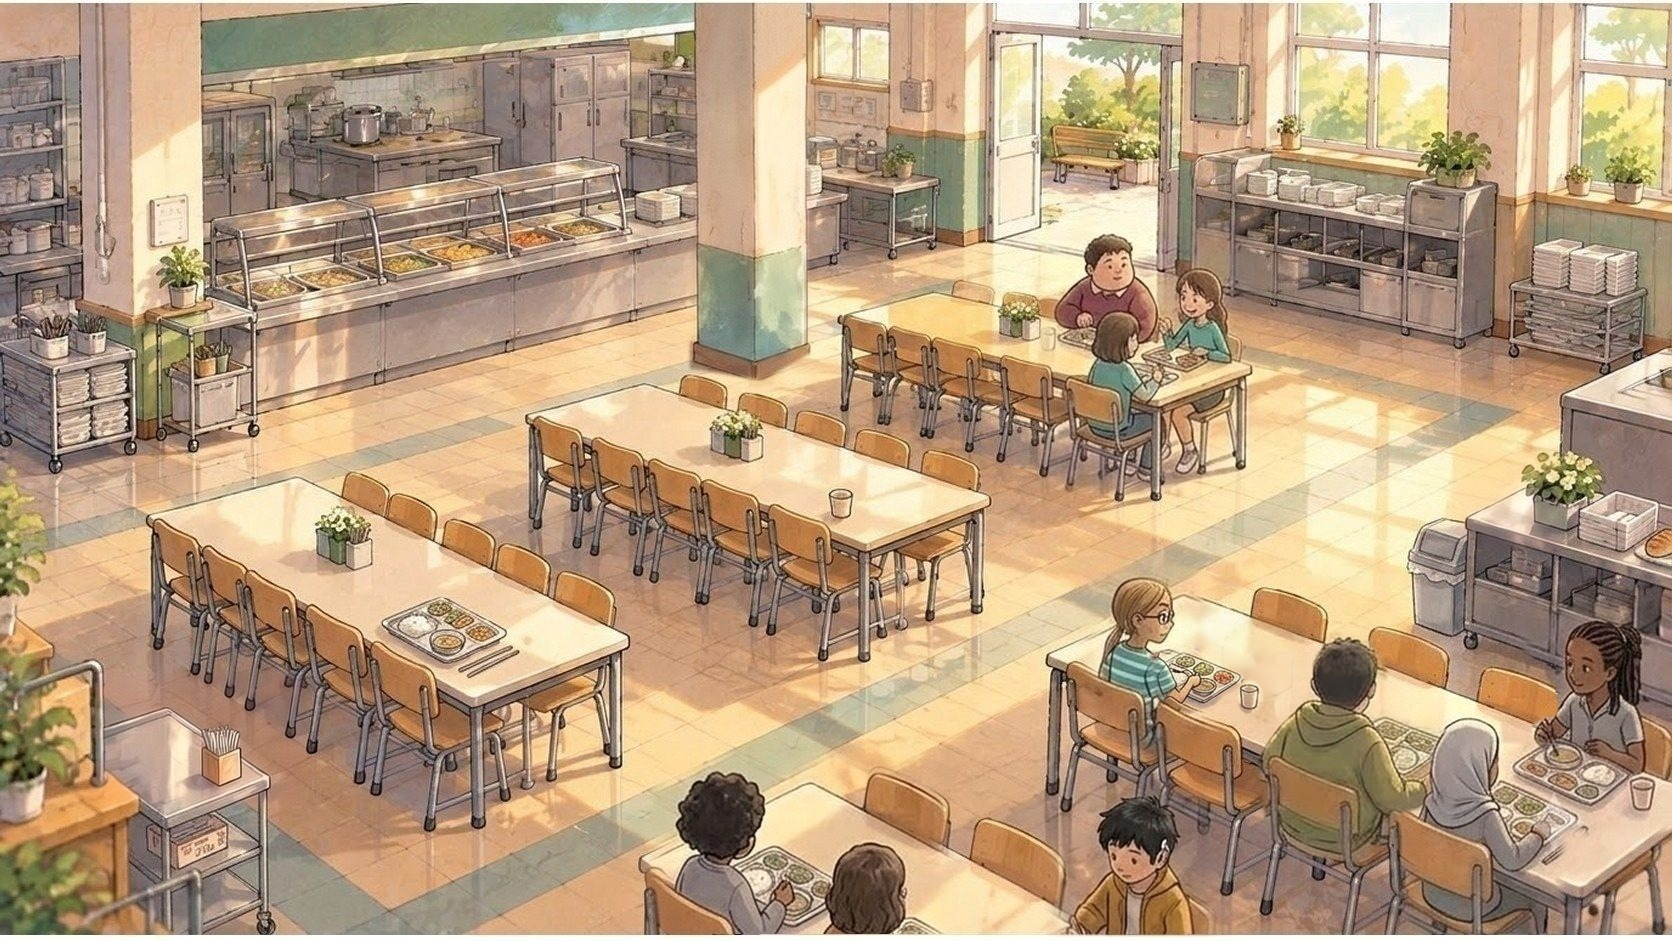
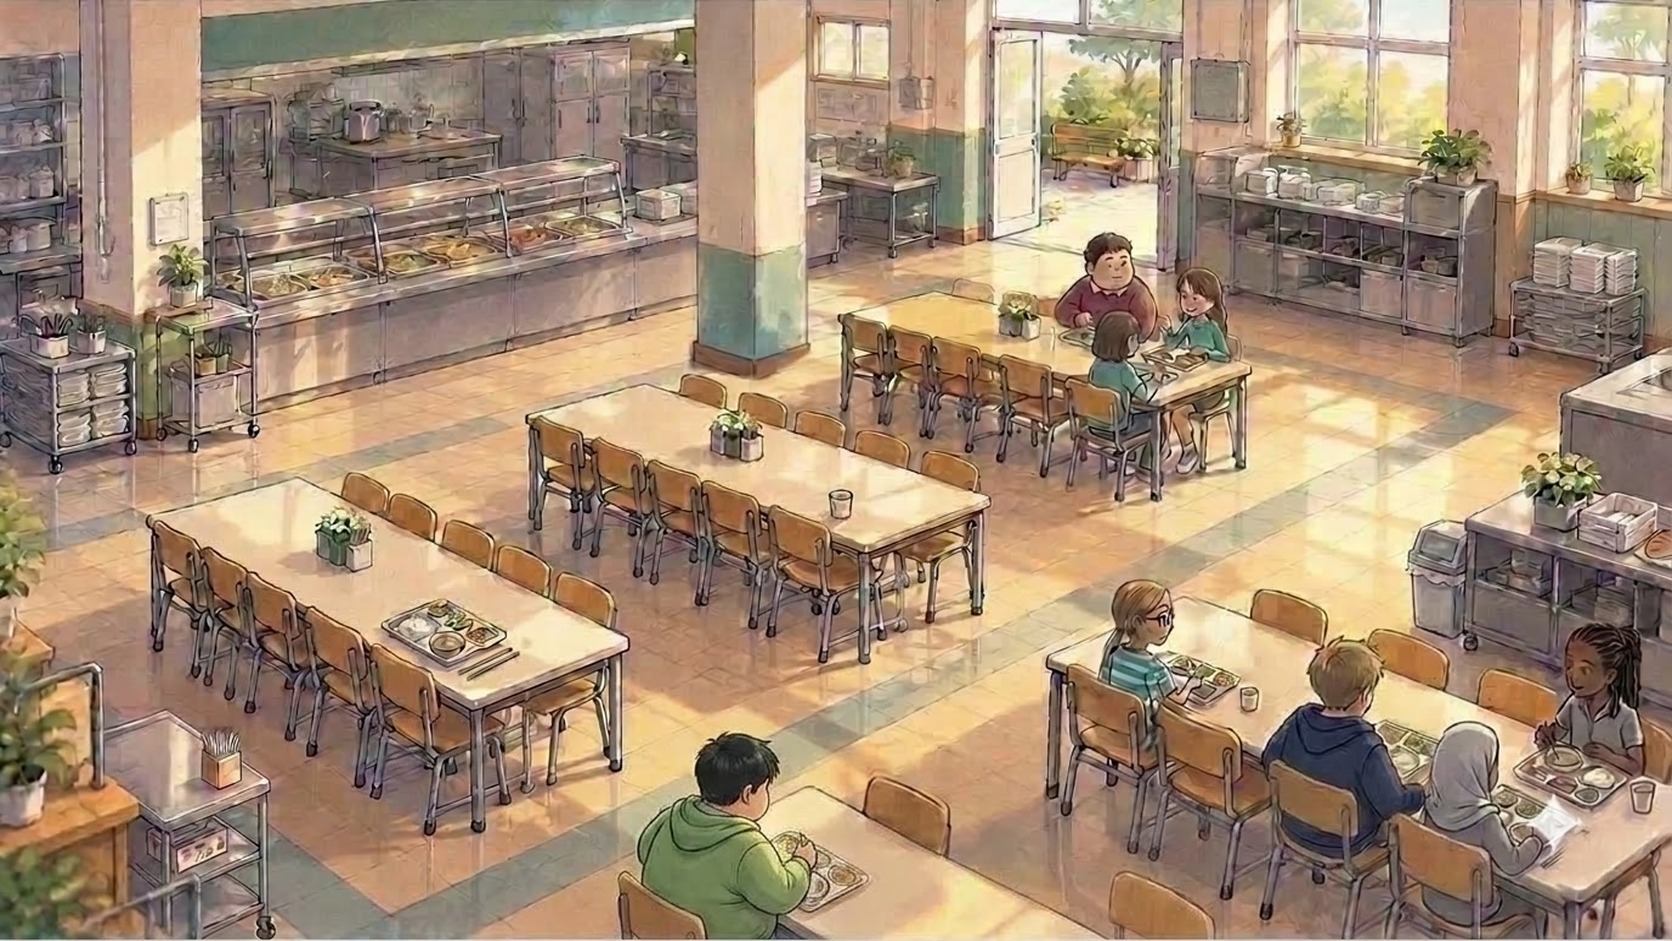
시우 4화 급식실(시우 자리·통통하게·잘린 시우 숨김)·5화 A(창틀 우유갑, 줄서기)·5화 C(공책에 적기), 혜은 2일차 지우개는 도착 뒤 앞바퀴 앞, 한결 13화 빈 선택지 버튼 고침

diff --git a/index.html b/index.html
@@ -119,14 +119,14 @@ body,button{word-break:keep-all;overflow-wrap:break-word}
 <div id="fader"></div>
 <script>
 // same address, newest version: if the page this phone has kept is older than the one online, fetch the new one and reopen
-const BUILD='1115115642';
+const BUILD='1115124801';
 try{fetch(location.pathname,{cache:'no-store'}).then(r=>r.text()).then(t=>{const m=t.match(/const BUILD='(\d+)'/);if(m&&m[1]!==BUILD&&sessionStorage.getItem('upd')!==m[1]){sessionStorage.setItem('upd',m[1]);fetch(location.pathname,{cache:'reload'}).then(()=>location.reload())}}).catch(()=>{})}catch(e){}
 </script>
-<script src="i18n.js?v=1115115642"></script>
-<script src="i18n_prologue_v2.js?v=1115115642"></script>
-<script src="day2/i18n_engine.js?v=1115115642"></script>
-<script src="day2/data.js?v=1115115642"></script>
-<script src="day3/data.js?v=1115115642"></script>
+<script src="i18n.js?v=1115124801"></script>
+<script src="i18n_prologue_v2.js?v=1115124801"></script>
+<script src="day2/i18n_engine.js?v=1115124801"></script>
+<script src="day2/data.js?v=1115124801"></script>
+<script src="day3/data.js?v=1115124801"></script>
 <script>
 // ---------- data ----------
 const MW=1672,MH=941,KID=180;
@@ -417,8 +417,9 @@ const pangSaid={};function tapPang(){speak('dog');const ls=(typeof PANG2!=='unde
 const talk=document.getElementById('talk'),faceEl=document.getElementById('face'),whoEl=document.getElementById('who'),lineEl=document.getElementById('line'),chEl=document.getElementById('choices'),nextEl=document.getElementById('next'),sceneEl=document.getElementById('scene');
 let queue=[],talkOn=false,qDone=null;
 function say(lines,done){if(touring){tourQ.push(()=>say(lines,done));return}busy=true;queue=lines.slice();qDone=done;talkOn=true;talk.classList.add('on');advance();setTimeout(clearUI,20)}
-function advance(){if(chEl.classList.contains('on'))return;const l=queue.shift();hideSay();if(!l){talk.classList.remove('on');talkOn=false;busy=false;const d=qDone;qDone=null;d&&d();return}
- if(typeof l==='function'){l();return advance()}
+// a function line may return a promise (a kid still walking): the lines wait for it, and taps meanwhile do nothing (11/15)
+let WAITQ=false;function advance(){if(chEl.classList.contains('on')||WAITQ)return;const l=queue.shift();hideSay();if(!l){talk.classList.remove('on');talkOn=false;busy=false;const d=qDone;qDone=null;d&&d();return}
+ if(typeof l==='function'){const r=l();if(r&&typeof r.then==='function'){WAITQ=true;r.then(()=>{WAITQ=false;advance()});return}return advance()}
  const[who,expr,text]=l;const fid=who==='me'||who==='think'?HERO:who;
  // the one taught word shown in the learned language in this line is also heard (UI text stays in the player's language)
  {TEACH=l.teach||(DAY<=1?['mom','notebook']:[]);tr(text);LINEW=LASTW.slice()}// heard when tapped (day2/tapword.js), not on its own
@@ -581,37 +582,37 @@ function pickHero(){const m=document.getElementById('modal'),c=document.getEleme
  c.innerHTML=`<h2>${tr('전학생 반장되기')}</h2><p>${tr('한국말이 아직 서툰 전학생,<br>반장 선거에 나가다.')}</p><p style="margin-top:14px">${tr('누구로 할까요?')}</p>${(()=>{const s=loadSave();return s&&s.day>=2&&s.mode===UI+'-'+LANG?`<p><button class="big" id="cont">${tr('{n}일차부터 이어 하기').replace('{n}',s.day)}</button></p>`:''})()}<div class="pick heroes"><button data-h="hero_f"><img src="faces/hero_f_smile.jpg" alt="여자 주인공">${heroName(1)}</button><button data-h="hero_m"><img src="faces/hero_m_smile.jpg" alt="남자 주인공">${heroName(0)}</button></div>`;
  m.classList.add('on');{const cb=document.getElementById('cont');if(cb)cb.onclick=()=>{const s=loadSave();HERO=s.hero;Object.assign(HEART,s.heart||{});(s.found||[]).forEach(k=>FOUND.add(k));HEART_D1={...HEART};chime();(typeof contGame==='function'?contGame(s):startDay(Math.min(s.day,Object.keys(window.D3||{}).length?3:2)))}}c.querySelectorAll('.pick button').forEach(b=>b.onclick=()=>{HERO=b.dataset.h;m.classList.remove('on');chime();bgm('day');load('home_am');say([['nar','','이사 온 다음 날 아침. 아직 풀지 못한 상자들이 쌓여 있다.'],['think','sad','(오늘부터 새 학교야. 여기 말도 아직 서툰데…….)'],['think','smile','({m}한테 인사하고 학교 가야지.)']],morning)})}
 </script>
-<script src="day2/engine.js?v=1115115642"></script>
-<script src="day2/ep_minho.js?v=1115115642"></script>
-<script src="day2/meet.js?v=1115115642"></script>
-<script src="day2/ep_sua.js?v=1115115642"></script>
-<script src="day2/ep_hangyeol.js?v=1115115642"></script>
-<script src="day2/ep_siwoo.js?v=1115115642"></script>
-<script src="day2/ep_haram.js?v=1115115642"></script>
-<script src="day2/ep_jiho.js?v=1115115642"></script>
-<script src="day2/ep_hyeeun.js?v=1115115642"></script>
-<script src="day2/ep_haneul.js?v=1115115642"></script>
-<script src="day2/ep_junho.js?v=1115115642"></script>
-<script src="day2/ep_yuna.js?v=1115115642"></script>
-<script src="day2/ep_yena.js?v=1115115642"></script>
-<script src="day2/ep_haeun.js?v=1115115642"></script>
-<script src="day2/ep_youngmin.js?v=1115115642"></script>
-<script src="day2/ep_seah.js?v=1115115642"></script>
-<script src="day2/ep_jihoon.js?v=1115115642"></script>
-<script src="words_ja_ru.js?v=1115115642"></script>
-<script src="day2/mybag.js?v=1115115642"></script>
-<script src="day2/wordpics.js?v=1115115642"></script>
-<script src="day2/spots.js?v=1115115642"></script>
-<script src="day2/textfit.js?v=1115115642"></script>
-<script src="day2/tester.js?v=1115115642"></script>
-<script src="day2/ux.js?v=1115115642"></script>
-<script src="day2/tapword.js?v=1115115642"></script>
-<script src="day2/review.js?v=1115115642"></script>
-<script src="day2/plane.js?v=1115115642"></script>
-<script src="day2/bubble.js?v=1115115642"></script>
-<script src="day2/ep_ending.js?v=1115115642"></script>
-<script src="day2/ending.js?v=1115115642"></script>
-<script src="day2/stats.js?v=1115115642"></script>
+<script src="day2/engine.js?v=1115124801"></script>
+<script src="day2/ep_minho.js?v=1115124801"></script>
+<script src="day2/meet.js?v=1115124801"></script>
+<script src="day2/ep_sua.js?v=1115124801"></script>
+<script src="day2/ep_hangyeol.js?v=1115124801"></script>
+<script src="day2/ep_siwoo.js?v=1115124801"></script>
+<script src="day2/ep_haram.js?v=1115124801"></script>
+<script src="day2/ep_jiho.js?v=1115124801"></script>
+<script src="day2/ep_hyeeun.js?v=1115124801"></script>
+<script src="day2/ep_haneul.js?v=1115124801"></script>
+<script src="day2/ep_junho.js?v=1115124801"></script>
+<script src="day2/ep_yuna.js?v=1115124801"></script>
+<script src="day2/ep_yena.js?v=1115124801"></script>
+<script src="day2/ep_haeun.js?v=1115124801"></script>
+<script src="day2/ep_youngmin.js?v=1115124801"></script>
+<script src="day2/ep_seah.js?v=1115124801"></script>
+<script src="day2/ep_jihoon.js?v=1115124801"></script>
+<script src="words_ja_ru.js?v=1115124801"></script>
+<script src="day2/mybag.js?v=1115124801"></script>
+<script src="day2/wordpics.js?v=1115124801"></script>
+<script src="day2/spots.js?v=1115124801"></script>
+<script src="day2/textfit.js?v=1115124801"></script>
+<script src="day2/tester.js?v=1115124801"></script>
+<script src="day2/ux.js?v=1115124801"></script>
+<script src="day2/tapword.js?v=1115124801"></script>
+<script src="day2/review.js?v=1115124801"></script>
+<script src="day2/plane.js?v=1115124801"></script>
+<script src="day2/bubble.js?v=1115124801"></script>
+<script src="day2/ep_ending.js?v=1115124801"></script>
+<script src="day2/ending.js?v=1115124801"></script>
+<script src="day2/stats.js?v=1115124801"></script>
 <script>
 // the goal shows big for a few seconds, then folds into a small pill (tap it to open it again)
 {const g=document.getElementById('goal');let t=null;const big=()=>{g.classList.remove('mini');clearTimeout(t);t=setTimeout(()=>g.classList.add('mini'),4000)};

diff --git a/day2/ep_siwoo.js b/day2/ep_siwoo.js
@@ -157,9 +157,10 @@ EP.siwoo=[
   common:[['me','smile','2번은 내가 적어야 돼. {m}, 이상한 말 하나 알려 줘.'],['mom','smile','음…… ‘발이 넓다’?'],['me','surprised','……발이 크다는 거야?'],['mom','smile','그거 2번으로 적어.'],['dad','smile','{d}도 하나 줄게. ‘귀가 얇다.’']]}},
 
 // ■ Day 5 — 숟가락 소리 (4)
-{title:'숟가락 소리',scene:'siwoo_04',place:'cafe',at:[1202,726],sit:[1340,755,200],cafeMap:'cafe2_lunch_siwoo',
+{title:'숟가락 소리',scene:'siwoo_04',place:'cafe',at:[905,815],sit:[723,800,200],cafeMap:'cafe2_lunch_siwoo',// (11/15 owner) the map redrawn: Siwoo sits at the bottom table in front of where Haram stands, the chair beside him empty
  things:{},
  pre:[
+  {me:[900,812]},
   ['nar','','점심시간 급식실. 시끄러웠다. 수백 명이 한꺼번에 떠들고, {@tray}이 부딪치고, {@chair}가 끌렸다.'],
   {pic:'siwoo_04c'},
   ['nar','','시우는 늘 급식실 맨 끝 벽 쪽 자리에 앉았다. 나는 30센티 떨어진 자리에 {@tray}을 놓았다.'],
@@ -879,4 +880,4 @@ addEventListener('load',()=>{const _ldSw=load;load=function(id,extra){try{const 
 if(typeof HEROPIC!=='undefined')HEROPIC.add('siwoo_08e');HEROPIC.add('siwoo_02a');
 
 // hide the Siwoo sprite where he is drawn into the map (tapping his spot still works)
-{const _ld=load;load=function(id){try{if(id==='cafe'&&MAPS.cafe&&MAPS.cafe.img2){const e=epNext('siwoo',EPIDX.siwoo);if(e&&e.place==='cafe'&&e.cafeMap){MAPS.cafe.img2=`maps/${e.cafeMap}.jpg`;window._swDrawn=1}else{if(/_siwoo/.test(MAPS.cafe.img2))MAPS.cafe.img2='maps/cafe2_lunch.jpg';window._swDrawn=0}}}catch(e){}const r=_ld.apply(this,arguments);try{if(id==='cafe'&&window._swDrawn){const hide=()=>{const n=npcs.find(n=>n.id==='siwoo');if(n&&n.el){n.el.style.visibility='hidden'}};hide();setTimeout(hide,60);setTimeout(hide,400)}}catch(e){}return r}}
+{const _ld=load;load=function(id){try{if(id==='cafe'&&MAPS.cafe&&MAPS.cafe.img2){const e=epNext('siwoo',EPIDX.siwoo);if(e&&e.place==='cafe'&&e.cafeMap){MAPS.cafe.img2=`maps/${e.cafeMap}.jpg`;window._swDrawn=1}else{if(/_siwoo/.test(MAPS.cafe.img2))MAPS.cafe.img2='maps/cafe2_lunch.jpg';window._swDrawn=0}}}catch(e){}const r=_ld.apply(this,arguments);try{if(id==='cafe'&&window._swDrawn){const hide=()=>{const n=npcs.find(n=>n.id==='siwoo');if(n&&n.el){n.el.style.visibility='hidden'}};hide();setTimeout(hide,60);setTimeout(hide,400);clearInterval(window._swHideT);window._swHideT=setInterval(()=>{if(MAP!=='cafe'||!window._swDrawn){clearInterval(window._swHideT);return}hide()},300)}}catch(e){}return r}}

diff --git a/day2/ep_hangyeol.js b/day2/ep_hangyeol.js
@@ -660,12 +660,13 @@ EP.hangyeol=[
    ['me','smile','예나야, 한결이가 결이라고 하는 건, 그러니까, 할아버지가…… 아니 {@picture}에도 그렇고……'],{pic:'hangyeol_13_cC'},['hangyeol','surprised','야, 야. 내가 말할게.'],
    ['nar','','한결이가 손을 들어 내 말을 막았다.'],['hangyeol','smile','예나야, 그냥 그게 더 좋아. 이유는 내가 말할게. 할아버지가 그렇게 불렀어.'],['yena','smile','아, 그래? 알았어, 결이.'],
    ['think','sad','(도와주려 했는데, 한결이가 할 말을 내가 막 했네.)']]},
-  {pic:'hangyeol_13_cB'},{k:'D',text:'예나에게 짧게 말한다. 「불리고 싶은 이름으로 불러 주면 좋잖아. 나도 이름이 두 개야.」',pts:{hangyeol:2},r:[
+  {k:'D',text:'예나에게 짧게 말한다. 「불리고 싶은 이름으로 불러 주면 좋잖아. 나도 이름이 두 개야.」',pts:{hangyeol:2},r:[
    ['me','smile','불리고 싶은 이름으로 불러 주면 좋잖아. 나도 이름이 두 개야. {SN|이랑} {HN}.'],['yena','surprised','아, 그렇네. {HN}? 다시 해 봐.'],
    ['nar','','내 이름을 말했다. 예나가 따라 하다가 혀가 꼬였다.'],['yena','laugh','어렵다! 근데 결이는 쉽다. 결이!'],['hangyeol','laugh','결이는 쉽지. 두 글자.'],
    ['nar','','다들 웃었다. 한결이가 다시 {@chopsticks}을 들었다.']]}],
  post:[
   {only:['B'],lines:[
+   {pic:'hangyeol_13_cB'},
    {flag:'H04_name',is:1,lines:[['me','laugh','나는 원래 결이라고 불렀어! 옛날부터!']]},
    {flag:'H04_name',is:0,lines:[['me','laugh','나 그거 알았어! 한결이 {@picture}에 결이 공방이라고 써 있었어!']]},
    ['yena','surprised','뭐? 너만? 언제부터?'],['junho','surprised','왜 너만 알았어?'],

diff --git a/day2/ep_hyeeun.js b/day2/ep_hyeeun.js
@@ -79,11 +79,13 @@ EP.hyeeun=[
    ['think','sad','(미안한 얼굴을 너무 많이 했나 봐.)']]}],
  flag:{E02_hand:{B:1}},
  post:[
-  {move:['hyeeun',600,818]},
-  {me:[700,815]},
+  {move:['hyeeun',600,775]},
+  {me:[700,775]},
+  // (11/15 owner) the eraser shows only once she is at her seat, right in front of her front wheels (she was still at the front of the aisle before)
+  ()=>new Promise(r=>{const t0=performance.now(),iv=setInterval(()=>{const n=npcs.find(k=>k.id==='hyeeun');if(!n||!n.path||performance.now()-t0>8000){clearInterval(iv);r()}},100)}),
   ['nar','','혜은이가 자리에 도착했다. 그런데 바로 멈췄다.'],
   ['hyeeun','surprised','어? 앞{@wheel} 앞에 뭐 있다.'],
-  {lay:[['eraser',600,872,50,null,'stay']]},
+  {lay:[['eraser',600,822,50,null,'stay']]},
   ['nar','','혜은이 앞{@wheel} 앞에 작은 지우개 하나가 있었다. 내 거였다. {@bag|을} 들 때 떨어진 모양이었다.'],
   {k:'eraser',goal:'「{x}」 줍기'},
   {clear:['eraser']},
